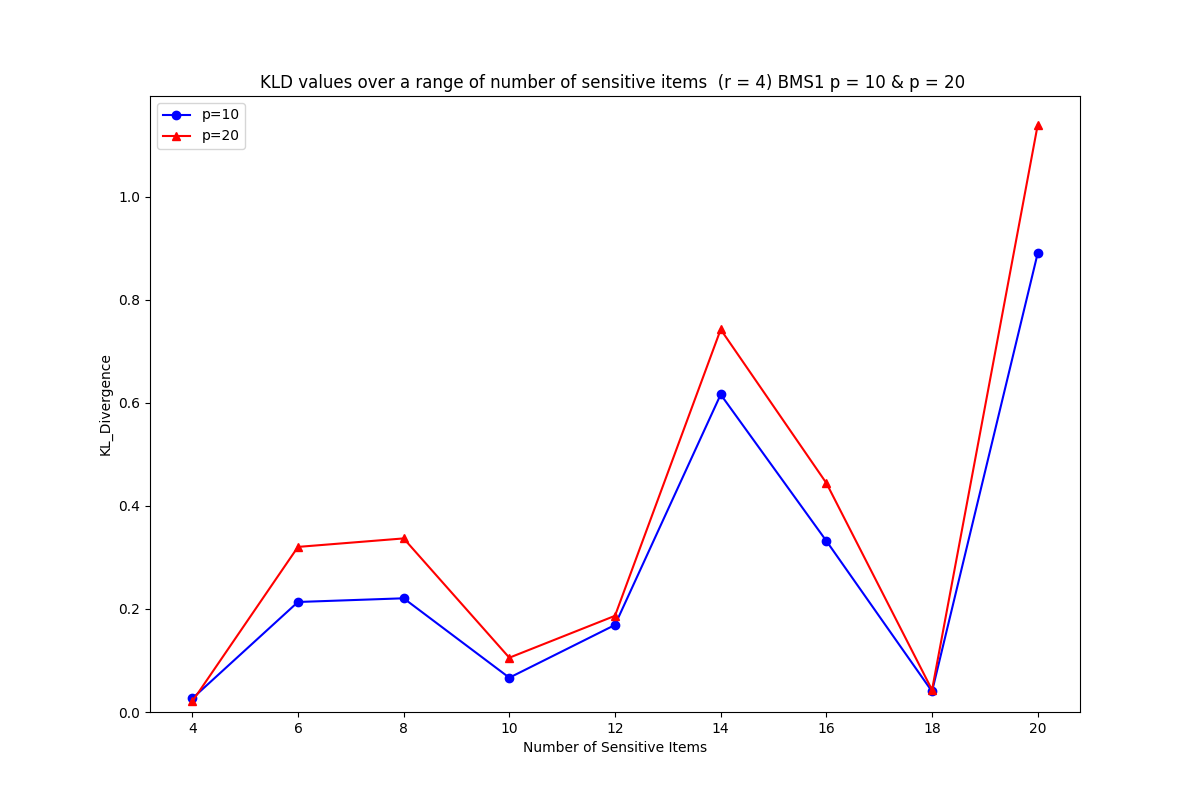
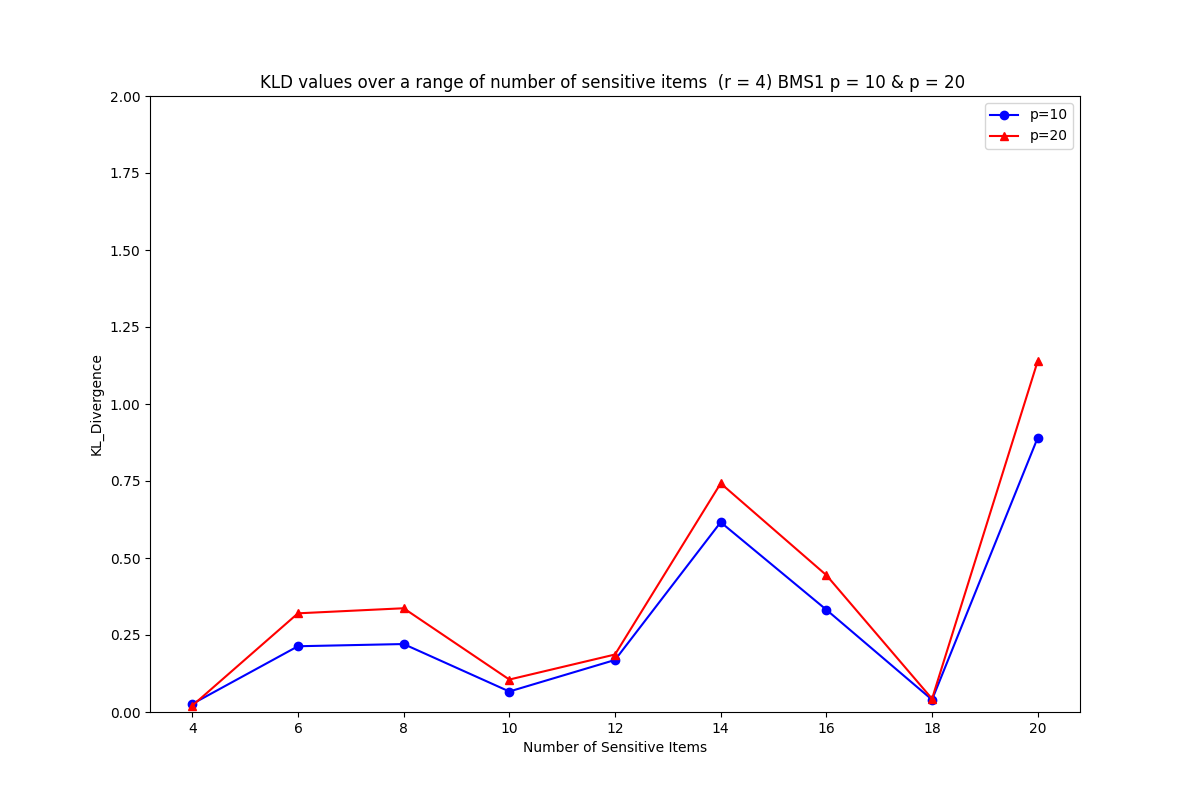
small change and test on calculation of cahd groups

diff --git a/cahd_update.py b/cahd_update.py
@@ -182,39 +182,15 @@ class CAHD:
                 for idx in selected_sensitive_items.index:
                     temp_hist[idx] -= selected_sensitive_items.loc[idx]
 
-                # privacy_satisfied = False
-                # for idx in temp_hist.keys():
-                #     if temp_hist[idx] * self.p_degree > remaining:
-                #         print(f"################################################\nPRIVACY SATISFIED temp_hist[idx]:{temp_hist[idx]}\n")
-                #         privacy_satisfied = True
-                #         st_index += 1
-                #         break
+                privacy_satisfied = False
+                for idx in temp_hist.keys():
+                    if temp_hist[idx] * self.p_degree > remaining:
+                        print(f"################################################\nPRIVACY SATISFIED temp_hist[idx]:{temp_hist[idx]}\n")
+                        privacy_satisfied = True
+                        st_index += 1
+                        break
 
-                # if not privacy_satisfied:
-                #     self.hist = temp_hist.copy()
-                #     label_group = self.band_matrix.iloc[group].index
-                #     id_sensitive_transaction = [i for i in id_sensitive_transaction if i not in label_group]
-                #
-                #     group_dict.append(self.band_matrix.index[group])
-                #     group_list.append(
-                #         self.band_matrix.loc[list(self.band_matrix.index[group]), self.QID_items])
-                #
-                #     sd_groups.append(selected_sensitive_items)
-                #
-                #     self.band_matrix = self.band_matrix.drop(
-                #         list(self.band_matrix.index[group]))
-                #
-                #     remaining = len(self.band_matrix.index)
-                    # logger("REMAINING",remaining)
-
-                # check formation of group or the creation of the last group
-                th_max = max(temp_hist.values())
-                # logger("TH_MAX of histogram", th_max)
-                # logger("temp_hist", temp_hist)
-                if th_max * self.p_degree > remaining - len(group):
-                    st_index += 1
-
-                else:
+                if not privacy_satisfied:
                     self.hist = temp_hist.copy()
                     label_group = self.band_matrix.iloc[group].index
                     id_sensitive_transaction = [i for i in id_sensitive_transaction if i not in label_group]
@@ -229,21 +205,45 @@ class CAHD:
                         list(self.band_matrix.index[group]))
 
                     remaining = len(self.band_matrix.index)
+                    # logger("REMAINING",remaining)
+                ############################################################################
+                # check formation of group or the creation of the last group
+                # th_max = max(temp_hist.values())
+                # # logger("TH_MAX of histogram", th_max)
+                # # logger("temp_hist", temp_hist)
+                # if th_max * self.p_degree > remaining - len(group):
+                #     st_index += 1
+                #
+                # else:
+                #     self.hist = temp_hist.copy()
+                #     label_group = self.band_matrix.iloc[group].index
+                #     id_sensitive_transaction = [i for i in id_sensitive_transaction if i not in label_group]
+                #
+                #     group_dict.append(self.band_matrix.index[group])
+                #     group_list.append(
+                #         self.band_matrix.loc[list(self.band_matrix.index[group]), self.QID_items])
+                #
+                #     sd_groups.append(selected_sensitive_items)
+                #
+                #     self.band_matrix = self.band_matrix.drop(
+                #         list(self.band_matrix.index[group]))
+                #
+                #     remaining = len(self.band_matrix.index)
             else:
                 st_index += 1
         # create the last group and update data structures
         selected_sensitive_items = self.band_matrix[self.sensitive_items].sum()
-        max_v = max(dict(selected_sensitive_items).values())
-        if max_v * self.p_degree <= len(self.band_matrix):
-            group_list.append(self.band_matrix[self.QID_items])
-            group_dict.append(self.band_matrix.index)
-            sd_groups.append(selected_sensitive_items)
-            self.band_matrix = None
-            self.SD_groups = sd_groups
-            self.group_list = group_list
-            self.group_dict = group_dict
-            return True
-        return False
+        # max_v = max(dict(selected_sensitive_items).values())
+        # if max_v * self.p_degree <= len(self.band_matrix):
+        group_list.append(self.band_matrix[self.QID_items])
+        group_dict.append(self.band_matrix.index)
+        sd_groups.append(selected_sensitive_items)
+        self.band_matrix = None
+        self.SD_groups = sd_groups
+        self.group_list = group_list
+        self.group_dict = group_dict
+            # return True
+        # return False
 
     @staticmethod
     def chunks(l, n):

diff --git a/plot_general.py b/plot_general.py
@@ -20,22 +20,14 @@ def prepare_avg_values(df, depend_col):
 
 
 if __name__ == "__main__":
-    p_range_m10_df = pd.read_csv("Data_to_plot/Merged_outputs/BMS1_p_range_m10.csv")
+    # p_range_m10_df = pd.read_csv("Data_to_plot/Merged_outputs/BMS1_p_range_m10.csv")
+    p_range_m10_df = pd.read_csv("Data_to_plot/TEST2_BMS1_seed_42_1000_m10.csv")
     p_range_m20_df = pd.read_csv("Data_to_plot/Merged_outputs/BMS1_p_range_m20.csv")
 
     m_range_p10_df = pd.read_csv("Data_to_plot/Merged_outputs/BMS1_m_range_p10.csv")
     m_range_p20_df = pd.read_csv("Data_to_plot/Merged_outputs/BMS1_m_range_p20.csv")
 
     r_range_pm10_df = pd.read_csv("Data_to_plot/Merged_outputs/BMS1_r_range_p10.csv")
-
-    # logger("BMS1_m10_privacy_ranged_df", p_range_m10_df)
-    # logger("BMS1_m20_privacy_ranged_df", p_range_m20_df)
-    #
-    # logger("BMS1_p10_sensitive_ranged", m_range_p10_df)
-    # logger("BMS1_p20_sensitive_ranged", m_range_p20_df)
-
-    # TODO: get the count of items per p_degree or m
-    # calculate the average KLD for each p_degree or m
 
     avg_p_m10 = prepare_avg_values(p_range_m10_df, "p_degree")
     avg_p_m20 = prepare_avg_values(p_range_m20_df, "p_degree")
@@ -51,9 +43,11 @@ if __name__ == "__main__":
     x_range = [4, 6, 8, 10, 12, 14, 16, 18, 20]
 
     # Plot KLD values wrt a range of privacy degrees
-    plt.plot(p_range_m10_df["p_degree"].unique(), avg_p_m10["avg_KLD_value"], marker='o', linestyle='-', color='b', label="m=10")
-    plt.plot(p_range_m20_df["p_degree"].unique(), avg_p_m20["avg_KLD_value"], marker='^', linestyle='-', color='r', label="m=20")
-    # plt.ylim(ymax=0.1)
+    plt.plot(p_range_m10_df["p_degree"].unique(), avg_p_m10["avg_KLD_value"], marker='o', linestyle='-', color='b',
+             label="m=10")
+    plt.plot(p_range_m20_df["p_degree"].unique(), avg_p_m20["avg_KLD_value"], marker='^', linestyle='-', color='r',
+             label="m=20")
+    plt.ylim(ymax=2)
     plt.ylim(ymin=0)
     # plt.xlim(xmin=0)
     plt.xlabel("Privacy degree")
@@ -61,15 +55,17 @@ if __name__ == "__main__":
     plt.xticks(x_range, x_range)
     plt.title("KLD values over a range of p degrees (r = 4) BMS1 m = 10 & m = 20 ")
     plt.legend()
-    plt.savefig('./Plots/BMS1_p_vs_KLD.png')
+    plt.savefig('./Plots/TEST2_BMS1_p_vs_KLD.png')
     plt.show()
 
     # Plot KLD values over a changing quantity of sensitive items
     x_range = [4, 6, 8, 10, 12, 14, 16, 18, 20]
     plt.figure(figsize=(12, 8))
-    plt.plot(m_range_p10_df["num_sensitive"].unique(), avg_m_p10["avg_KLD_value"], marker='o', linestyle='-', color='b', label="p=10")
-    plt.plot(m_range_p20_df["num_sensitive"].unique(), avg_m_p20["avg_KLD_value"], marker='^', linestyle='-', color='r', label="p=20")
-    # plt.ylim(ymax=0.2)
+    plt.plot(m_range_p10_df["num_sensitive"].unique(), avg_m_p10["avg_KLD_value"], marker='o', linestyle='-', color='b',
+             label="p=10")
+    plt.plot(m_range_p20_df["num_sensitive"].unique(), avg_m_p20["avg_KLD_value"], marker='^', linestyle='-', color='r',
+             label="p=20")
+    plt.ylim(ymax=2)
     plt.ylim(ymin=0)
     # plt.xlim(xmin=0)
     plt.xlabel("Number of Sensitive Items")
@@ -80,15 +76,13 @@ if __name__ == "__main__":
     plt.savefig('./Plots/BMS1_m_vs_KLD.png')
     plt.show()
 
-    # TODO: get the avg calculation time for CAHD and KLD calculations
-    # plot the values
-
-    # print(map())
     # Plot CAHD execution times vs privacy degrees
     x_range = [4, 6, 8, 10, 12, 14, 16, 18, 20]
     plt.figure(figsize=(12, 8))
-    plt.plot(p_range_m10_df["p_degree"].unique(), avg_p_m10["CAHD_exec_time"], marker='o', linestyle='-', color='b', label="m=10")
-    plt.plot(p_range_m20_df["p_degree"].unique(), avg_p_m20["CAHD_exec_time"], marker='^', linestyle='-', color='r', label="m=20")
+    plt.plot(p_range_m10_df["p_degree"].unique(), avg_p_m10["CAHD_exec_time"], marker='o', linestyle='-', color='b',
+             label="m=10")
+    plt.plot(p_range_m20_df["p_degree"].unique(), avg_p_m20["CAHD_exec_time"], marker='^', linestyle='-', color='r',
+             label="m=20")
     # plt.ylim(ymax=0.2)
     plt.ylim(ymin=0)
     # plt.xlim(xmin=0)
@@ -103,8 +97,10 @@ if __name__ == "__main__":
     # Plot CAHD execution times vs privacy degrees
     x_range = [4, 6, 8, 10, 12, 14, 16, 18, 20]
     plt.figure(figsize=(12, 8))
-    plt.plot(m_range_p10_df["num_sensitive"].unique(), avg_m_p10["CAHD_exec_time"], marker='o', linestyle='-', color='b', label="m=10")
-    plt.plot(m_range_p20_df["num_sensitive"].unique(), avg_m_p20["CAHD_exec_time"], marker='^', linestyle='-', color='r', label="m=20")
+    plt.plot(m_range_p10_df["num_sensitive"].unique(), avg_m_p10["CAHD_exec_time"], marker='o', linestyle='-',
+             color='b', label="m=10")
+    plt.plot(m_range_p20_df["num_sensitive"].unique(), avg_m_p20["CAHD_exec_time"], marker='^', linestyle='-',
+             color='r', label="m=20")
     # plt.ylim(ymax=0.2)
     plt.ylim(ymin=0)
     # plt.xlim(xmin=0)

diff --git a/main_privacy_range.py b/main_privacy_range.py
@@ -8,7 +8,7 @@ from band_matrix import compute_band_matrix, logger
 
 if __name__ == "__main__":
     bm_size = 1000  # band matrix size
-    num_sensitive = 20  # number of sensitive items
+    num_sensitive = 10  # number of sensitive items
     alpha = 3
     r = 4
     p_degree_list = [4, 6, 8, 10, 12, 14, 16, 18, 20]
@@ -18,7 +18,7 @@ if __name__ == "__main__":
     KLD_execution_times = list()
     KL_values = list()
 
-    n_QID_combinations = 5
+    n_QID_combinations = 20
 
     # load the data
     data_path = './Dataset/BMS1_table.csv'
@@ -97,4 +97,4 @@ if __name__ == "__main__":
             dict_to_plot["CAHD_exec_time"].append(cahd_ex_time)
 
     df_to_plot = pd.DataFrame.from_dict(dict_to_plot)
-    df_to_plot.to_csv(f"./Data_to_plot/TEST4_BMS1_seed_42_{bm_size}_m{num_sensitive}.csv", index=False)
+    df_to_plot.to_csv(f"./Data_to_plot/TEST2_BMS1_seed_42_{bm_size}_m{num_sensitive}.csv", index=False)
